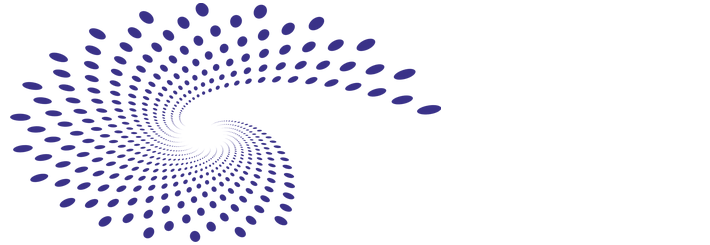
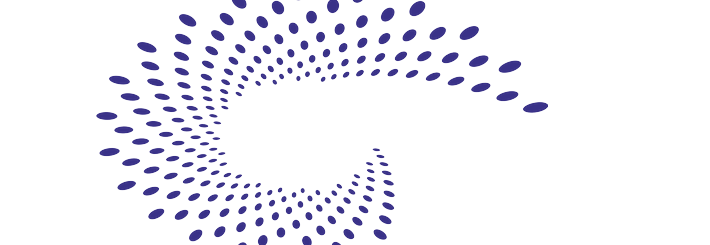
Home test: clearer wave and spiral (bigger dots, no tiny ones)
Claude-Session: https://claude.ai/code/session_01Pw5g5DbEBhu77UjJMeqZkQ

diff --git a/artifacts/gerrit-thanh-landing/src/styles/home-motion.css b/artifacts/gerrit-thanh-landing/src/styles/home-motion.css
@@ -381,7 +381,7 @@
   animation: home-dots-flow 16s ease-in-out infinite;
 }
 .home-page[data-palette="violet"] .home-oval-drift {
-  transform-origin: 649px 321px;
+  transform-origin: 544px 323px;
   animation: home-dots-spin 48s linear infinite;
 }
 .home-page[data-palette="rose"] .home-oval-drift {
